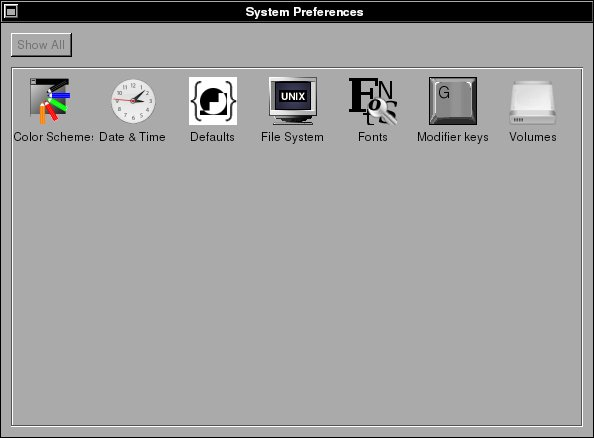
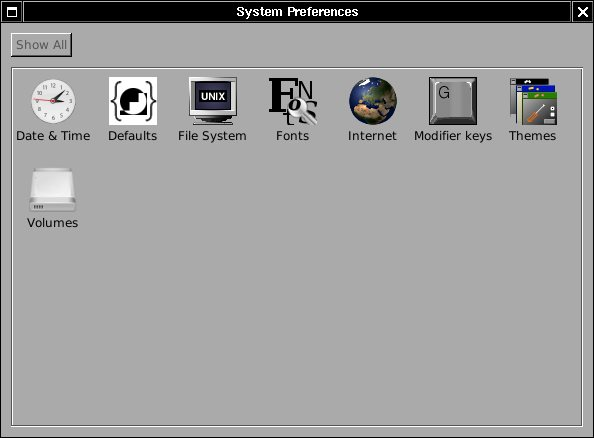
new main screenshot of sysprefs

diff --git a/experience/systempreferences.html b/experience/systempreferences.html
@@ -37,7 +37,7 @@ System Preferences are made of Modules, each one a bundle representing a single 
 <p>Technically, it is a clone of the Apple OS X System Preferences and offers a compatible framework.</p>
 
 
-<p><a href="screenshots/systempreferences-all.jpg"><img src="images/systempreferences-all.jpg" alt="System Preferences screenshot" border="2" height="184" width="250"></a></p>
+<p><a href="screenshots/systempreferences-all.jpg"><img src="images/systempreferences-all-250.jpg" alt="System Preferences screenshot" border="2" height="184" width="250"></a></p>
 The main window<br>
 <p><a href="screenshots/systempreferences-colorschemes.jpg"><img src="images/systempreferences-colorschemes.jpg" alt="System Preferences screenshot" border="2" height="127" width="250"></a></p>
 The Color schemes module<br>
